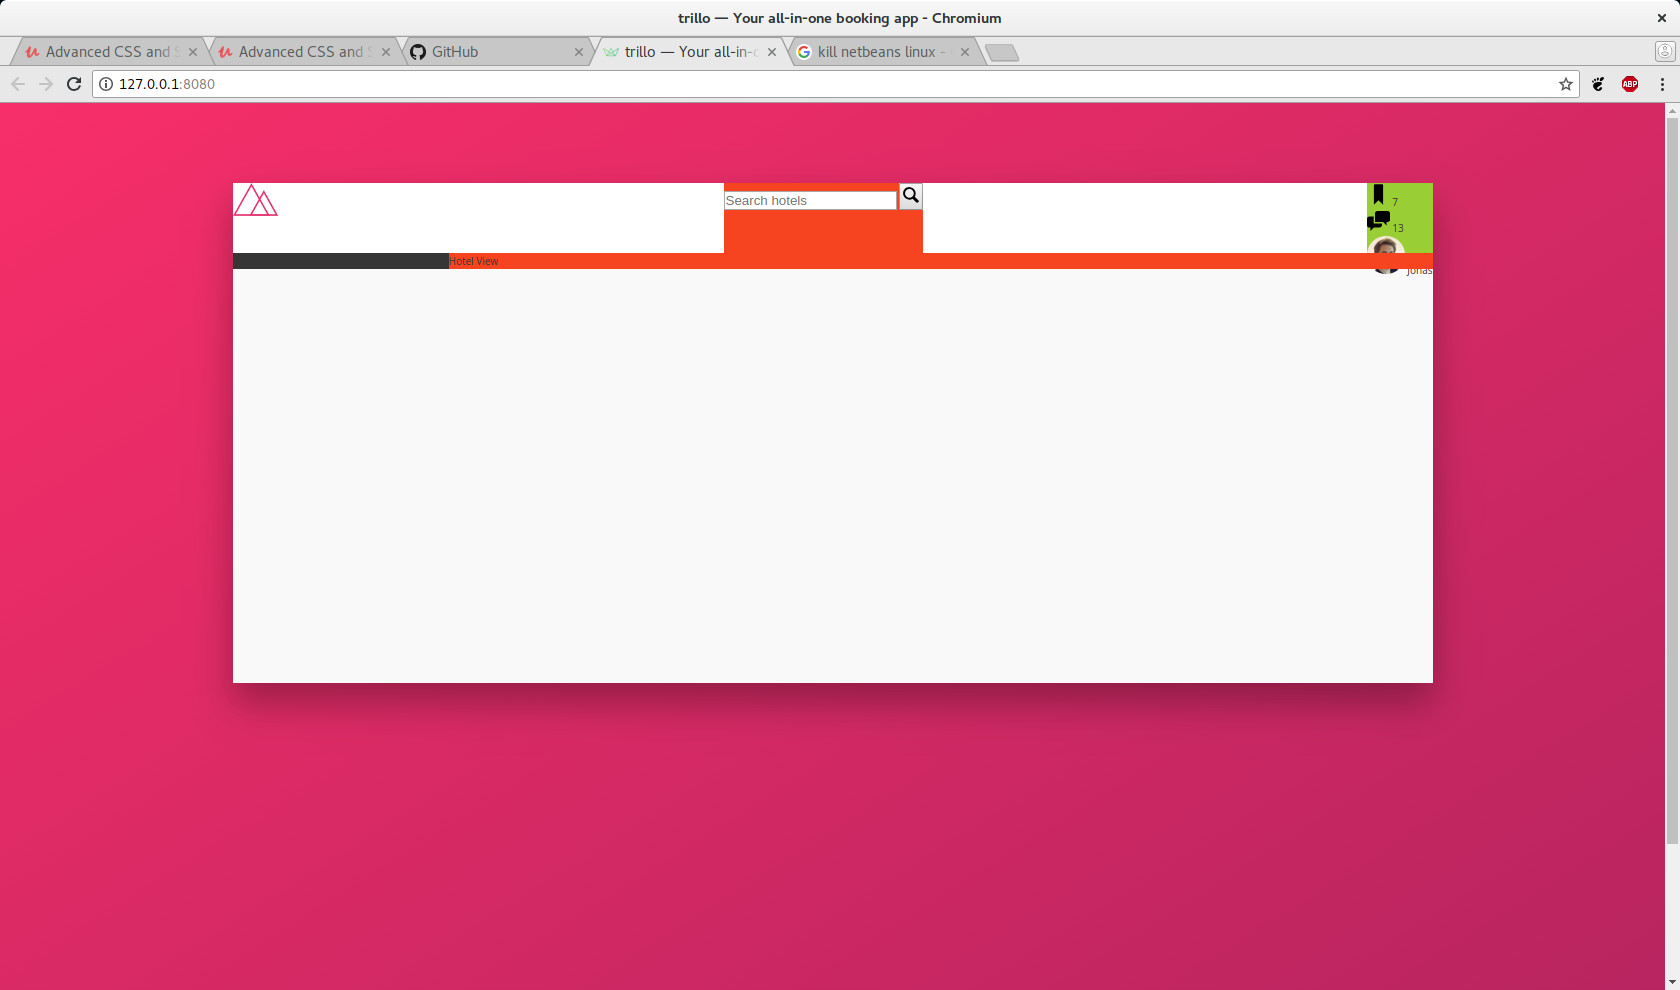
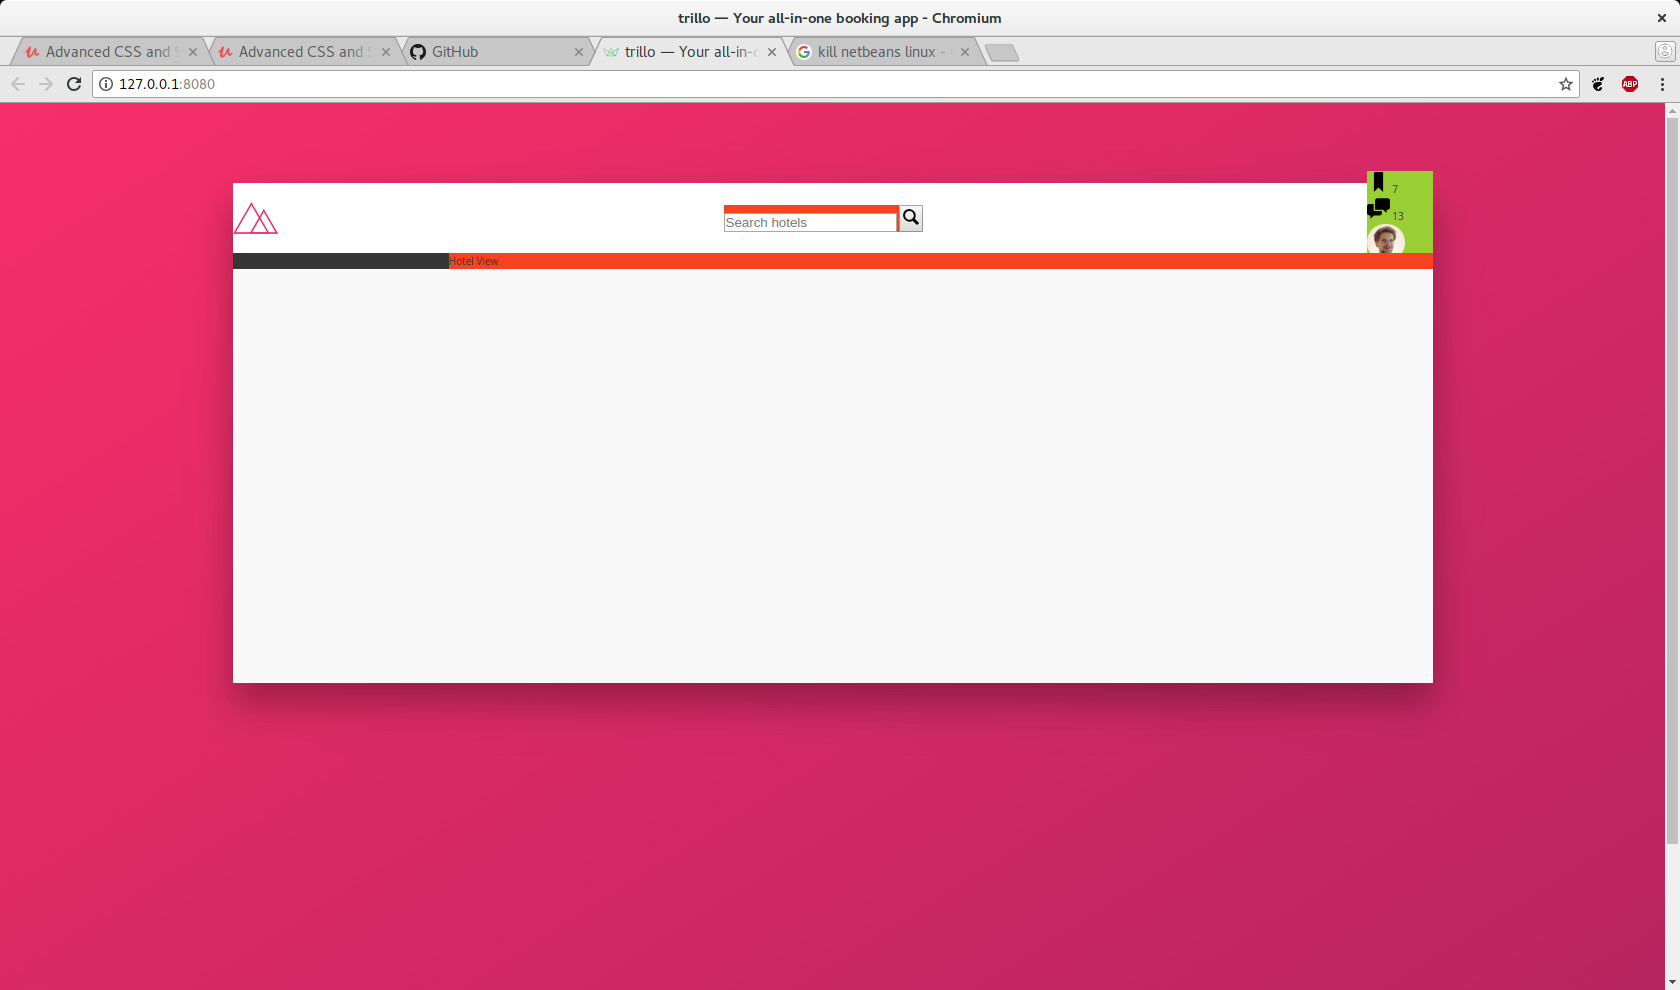
Center the header subelements with align-items flex directive 0n cross axis

Changed region(s): [[0.4333, 0.1818, 0.5571, 0.2727], [0.8048, 0.1515, 0.8667, 0.2727], [0.1238, 0.1818, 0.1857, 0.2424]]

diff --git a/sass/_layout.scss b/sass/_layout.scss
@@ -14,7 +14,7 @@
   
   display: flex;
   justify-content: space-between;
-  
+  align-items: center;
 }
 
 .content {
